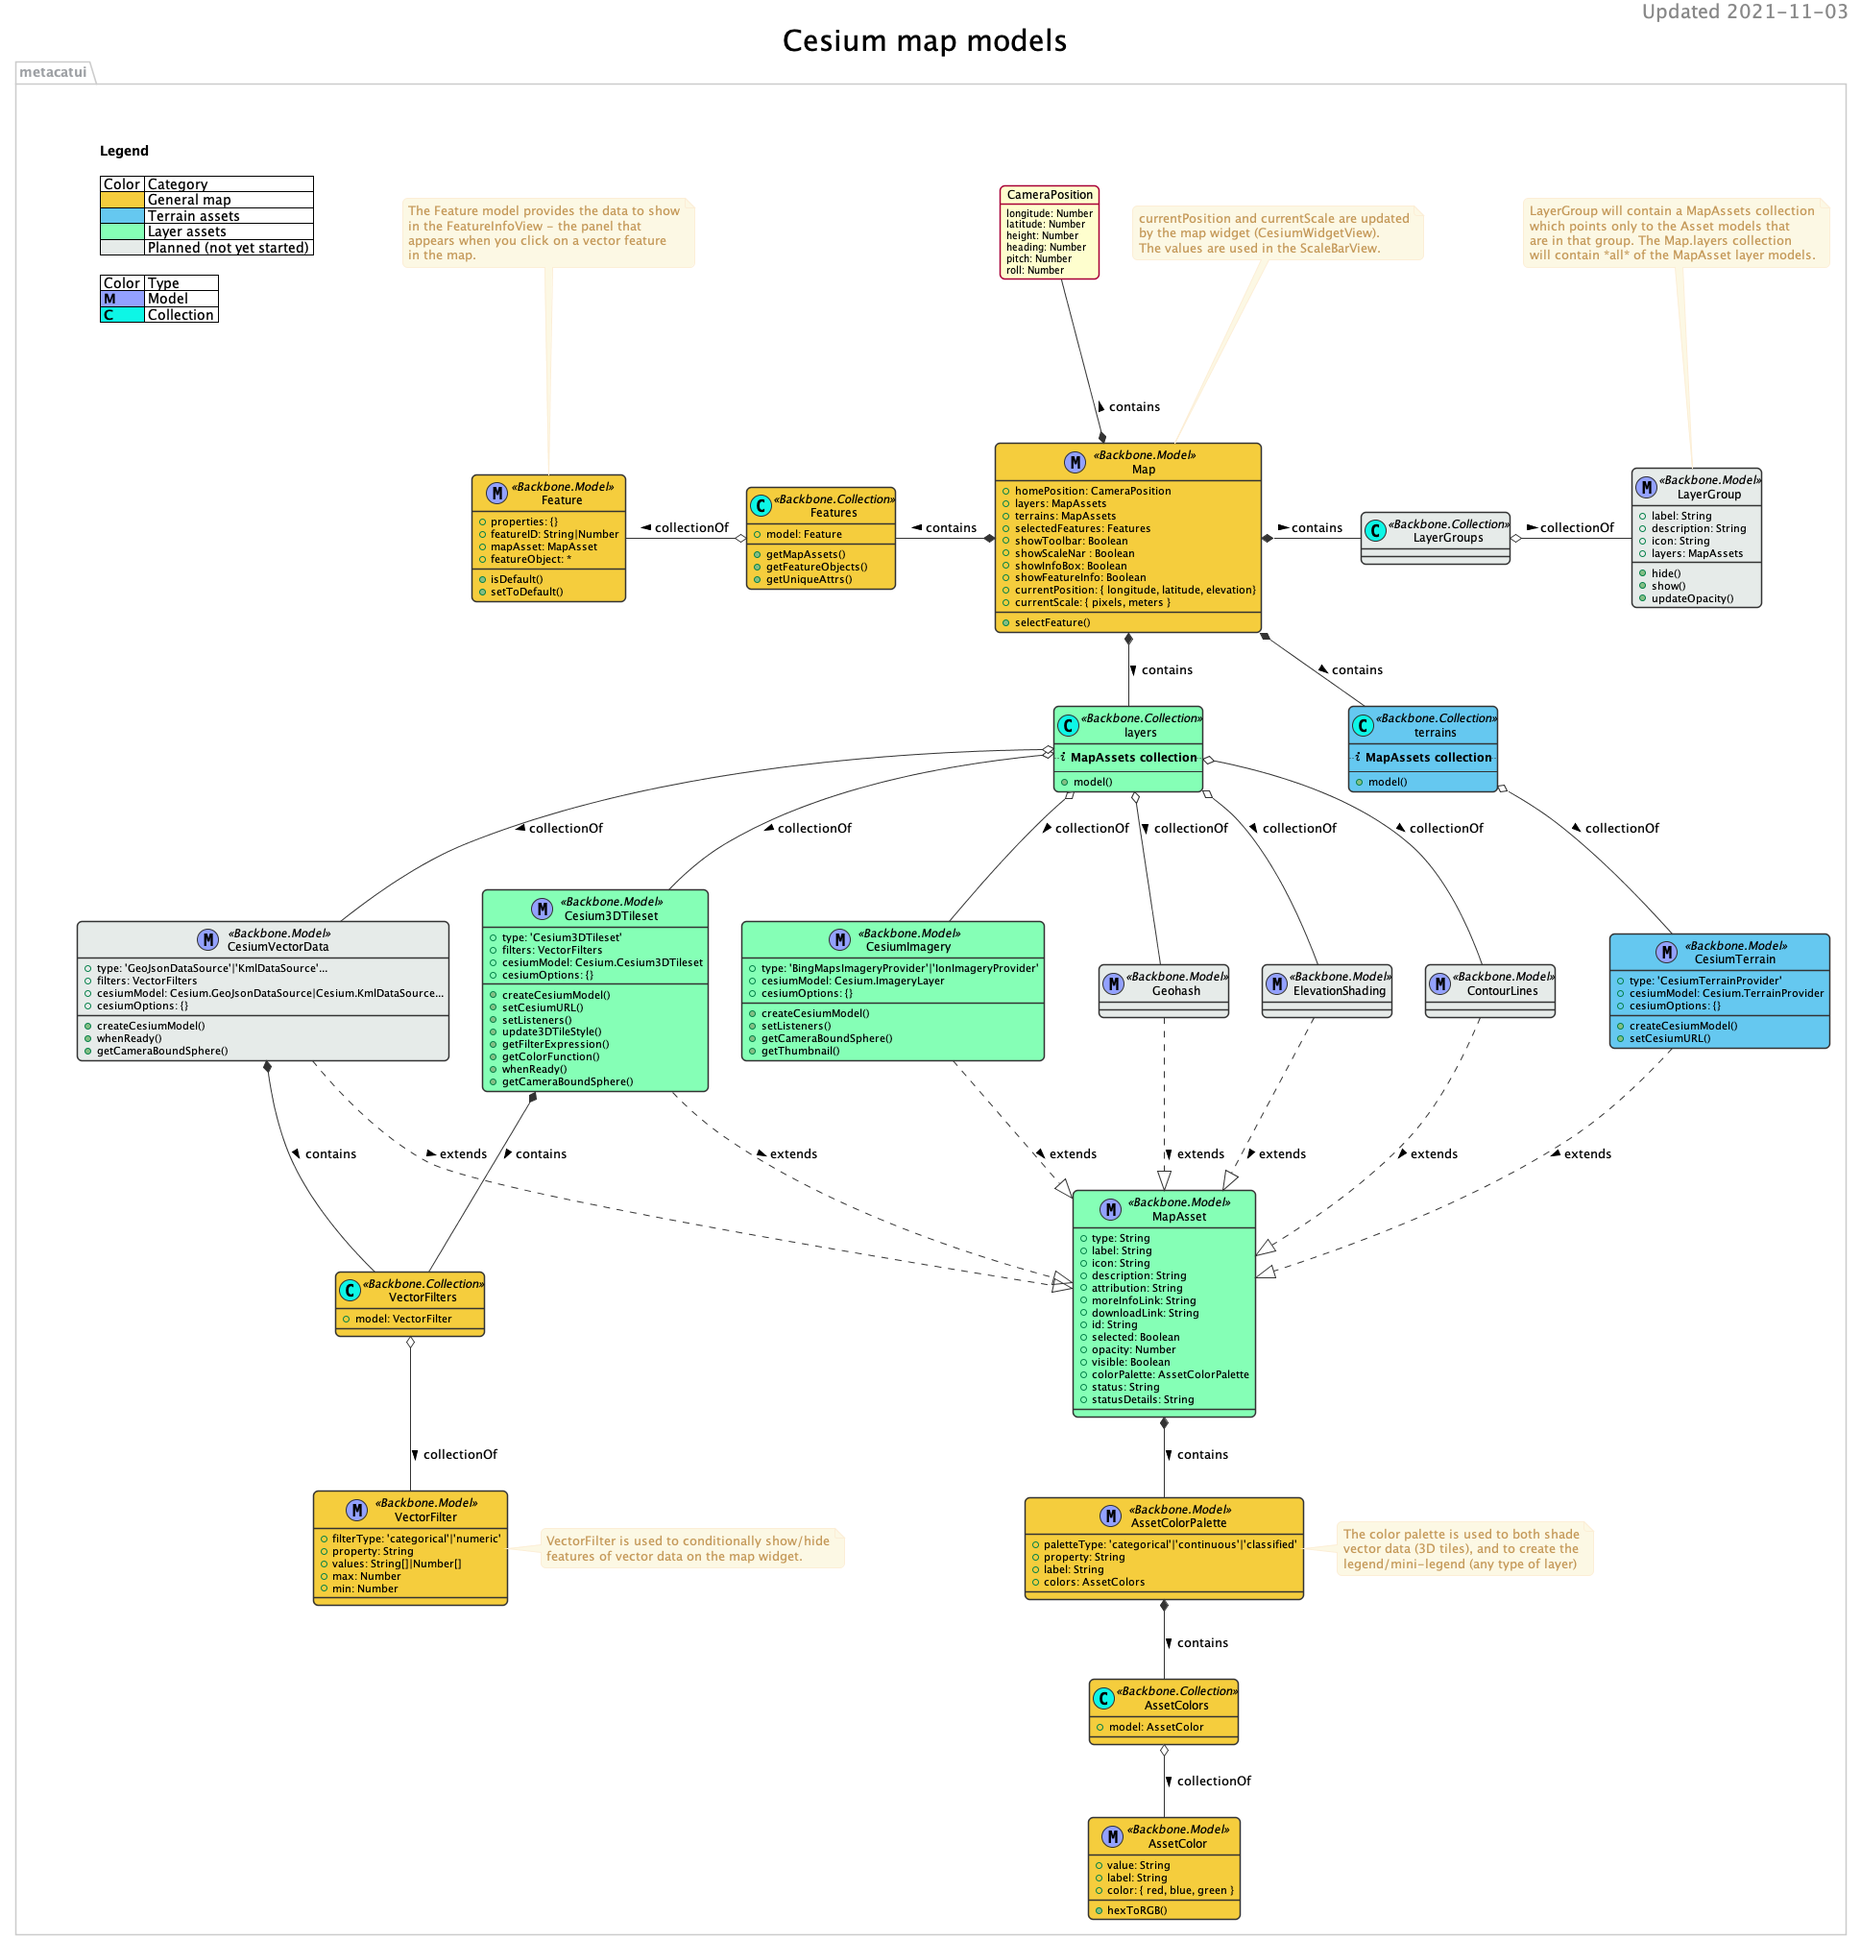
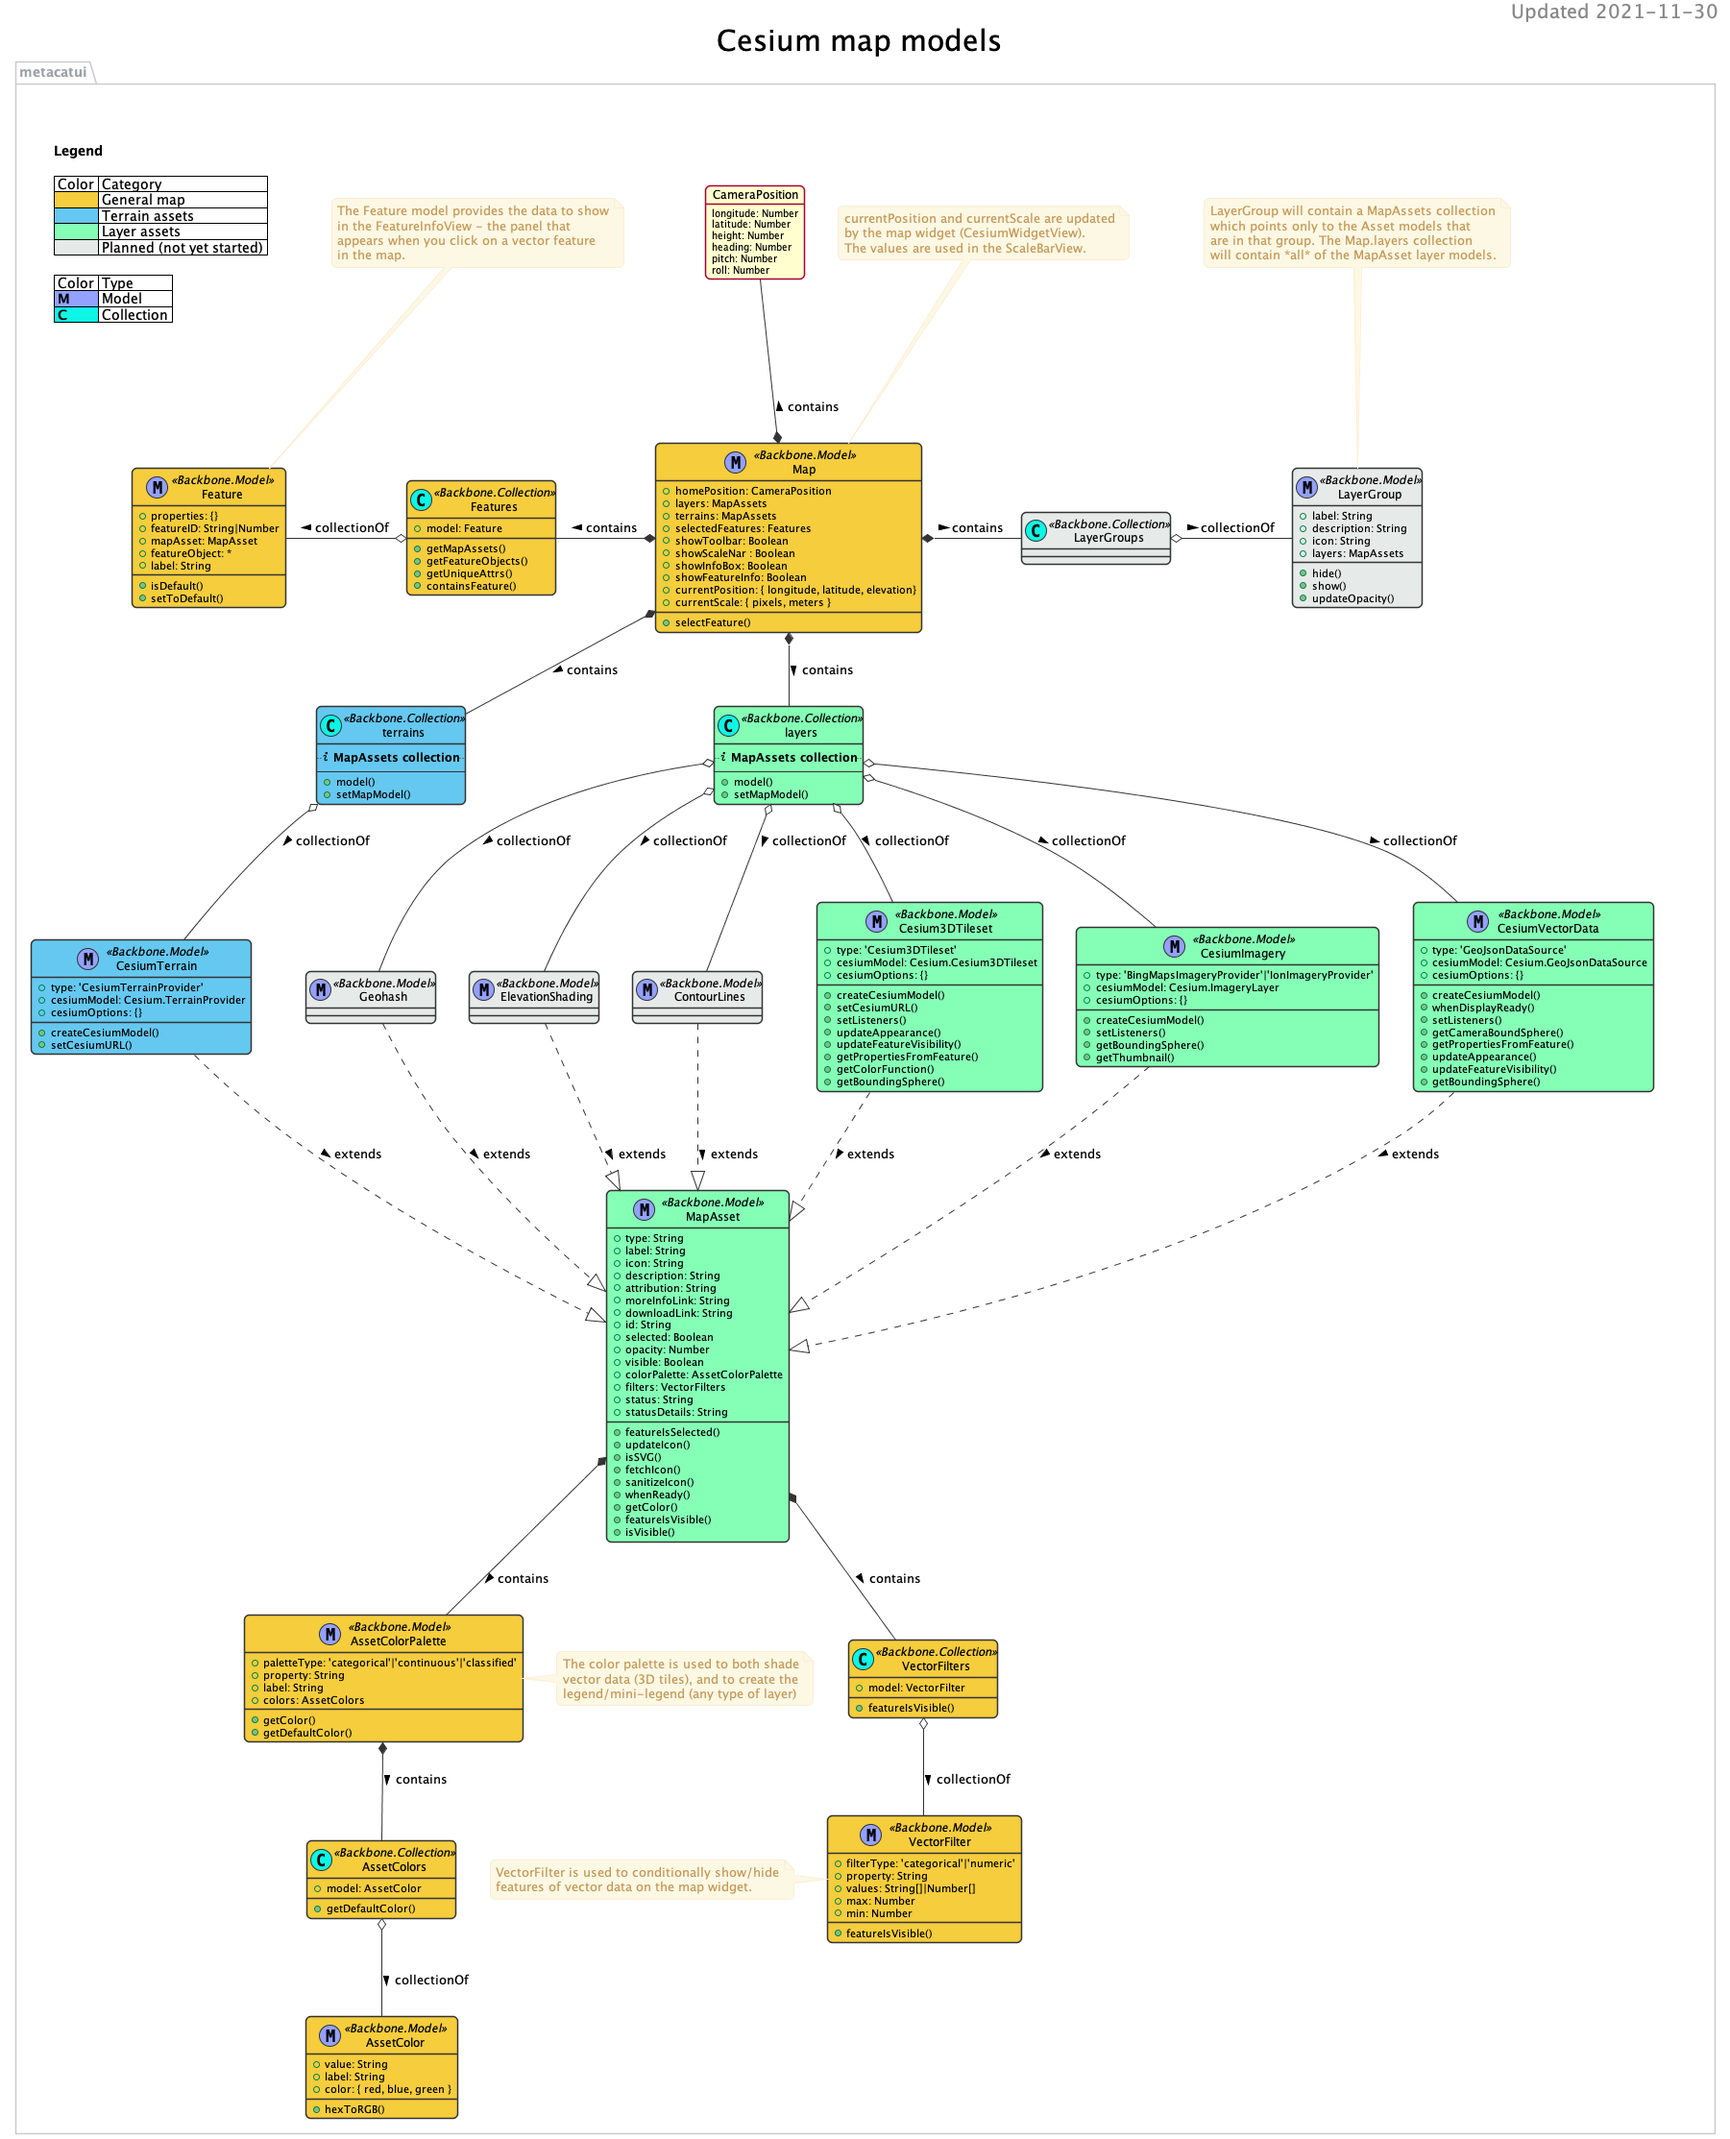
Add new functions & models to Cesium design

diff --git a/cesium/cesium-model.rst b/cesium/cesium-model.rst
@@ -6,7 +6,7 @@
     !define __Model__  << (M,#93a1ff) Backbone.Model >>
     !define __Collection__  << (C,#0df6e6) Backbone.Collection >>
 
-    header <size:20>Updated 2021-11-03</size>
+    header <size:20>Updated 2021-11-30</size>
     title <size:30>Cesium map models</size>
 
   
@@ -56,6 +56,7 @@
         + getMapAssets()
         + getFeatureObjects()
         + getUniqueAttrs()
+        + containsFeature()
       }
 
       class Feature __Model__ #f5cd3d {
@@ -64,6 +65,7 @@
         + featureID: String|Number
         + mapAsset: MapAsset
         + featureObject: *
+        + label: String
         + isDefault()
         + setToDefault()
       }
@@ -99,12 +101,14 @@
         ..  <b><size:14><&info></size><size:12>MapAssets collection</size></b> ..
         ---
         + model()
+        + setMapModel()
       }
 
       class layers __Collection__ #85ffb6 {
         ..  <b><size:14><&info></size><size:12>MapAssets collection</size></b> ..
         ---
         + model()
+        + setMapModel()
       }
 
       ' ================= terrain models =====================
@@ -133,37 +137,51 @@
         + opacity: Number
         + visible: Boolean
         + colorPalette: AssetColorPalette
+        + filters: VectorFilters
         + status: String
         + statusDetails: String
+        + featureIsSelected()
+        + updateIcon()
+        + isSVG()
+        + fetchIcon()
+        + sanitizeIcon()
+        + whenReady()
+        + getColor()
+        + featureIsVisible()
+        + isVisible()
       }
 
 
       together {
         together {
 
-          class CesiumVectorData __Model__ #e6ebe9 {
-            + type: 'GeoJsonDataSource'|'KmlDataSource'...
-            + filters: VectorFilters
-            + cesiumModel: Cesium.GeoJsonDataSource|Cesium.KmlDataSource...
+          class CesiumVectorData __Model__ #85ffb6 {
+            + type: 'GeoJsonDataSource'
+            + cesiumModel: Cesium.GeoJsonDataSource
             + cesiumOptions: {}
             + createCesiumModel()
-            + whenReady()
+            + whenDisplayReady()
+            + setListeners()
             + getCameraBoundSphere()
+            + getPropertiesFromFeature()
+            + updateAppearance()
+            + updateFeatureVisibility()
+            + getBoundingSphere()
           }
 
           class Cesium3DTileset __Model__ #85ffb6 {
             + type: 'Cesium3DTileset'
-            + filters: VectorFilters
             + cesiumModel: Cesium.Cesium3DTileset
             + cesiumOptions: {}
             + createCesiumModel()
             + setCesiumURL()
             + setListeners()
-            + update3DTileStyle()
-            + getFilterExpression()
+            + updateAppearance()
+            + updateFeatureVisibility()
+            + getPropertiesFromFeature()
             + getColorFunction()
-            + whenReady()
-            + getCameraBoundSphere()
+            + getBoundingSphere()
+            
           }
           class CesiumImagery __Model__ #85ffb6 {
             + type: 'BingMapsImageryProvider'|'IonImageryProvider'
@@ -171,7 +189,7 @@
             + cesiumOptions: {}
             + createCesiumModel()
             + setListeners()
-            + getCameraBoundSphere()
+            + getBoundingSphere()
             + getThumbnail()
           }
           
@@ -198,10 +216,13 @@
         + property: String
         + label: String
         + colors: AssetColors
+        + getColor()
+        + getDefaultColor()
       }
 
       class AssetColors __Collection__ #f5cd3d {
         + model: AssetColor
+        + getDefaultColor()
       }
 
       class AssetColor __Model__ #f5cd3d {
@@ -211,7 +232,7 @@
         + hexToRGB()
       }
 
-      note right of AssetColorPalette
+      note left of AssetColorPalette
         The color palette is used to both shade
         vector data (3D tiles), and to create the
         legend/mini-legend (any type of layer)
@@ -219,6 +240,8 @@
 
       class VectorFilters __Collection__ #f5cd3d {
         + model: VectorFilter
+        + featureIsVisible()
+
       }
 
       class VectorFilter __Model__ #f5cd3d {
@@ -227,9 +250,10 @@
         + values: String[]|Number[]
         + max: Number
         + min: Number
+        + featureIsVisible()
       }
 
-      note right of VectorFilter
+      note left of VectorFilter
         VectorFilter is used to conditionally show/hide
         features of vector data on the map widget.
       end note
@@ -261,10 +285,8 @@
       ElevationShading ..|> MapAsset : extends >
       ContourLines ..|> MapAsset : extends >
 
-      Cesium3DTileset *-- VectorFilters : contains >
-      CesiumVectorData *-- VectorFilters : contains >
-
       MapAsset *-- AssetColorPalette : contains >
+      MapAsset *-- VectorFilters : contains >
 
       AssetColorPalette *-- AssetColors : contains >
       AssetColors o-- AssetColor : collectionOf >

diff --git a/cesium/cesium-view.rst b/cesium/cesium-view.rst
@@ -5,7 +5,7 @@
 
     !define __View__  << (V,#f79533) Backbone.View >>
 
-    header <size:20>Updated 2021-11-03</size>
+    header <size:20>Updated 2021-11-30</size>
     title <size:30>Cesium map views</size>
   
     package metacatui {
@@ -24,17 +24,21 @@
         + mapAssetRenderFunctions: {}[]
         + highlightBorderColor: Cesium.Color
         + requestRender()
+        + postRender()
+        + updateDataSourceDisplay()
         + initializePicking()
-        + highlightSelectedFeature()
-        + updateSelectedFeatureModel()
+        + highlightSelectedFeatures()
         + flyTo()
+        + completeFlight()
         + flyHome()
         + getCameraPosition()
         + setMouseMoveListeners()
         + updateCurrentScale()
         + pixelToMeters()
+        + addAsset()
         + updateTerrain()
         + add3DTileset()
+        + addVectorData()
         + addImagery()
       }
 
